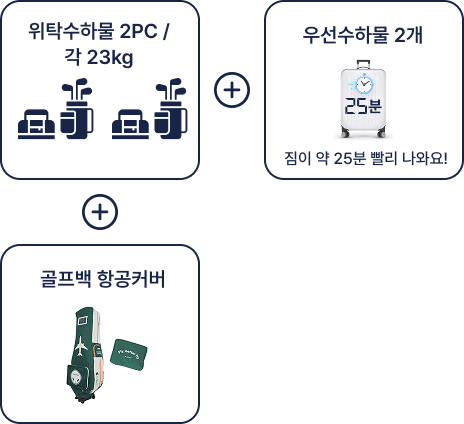
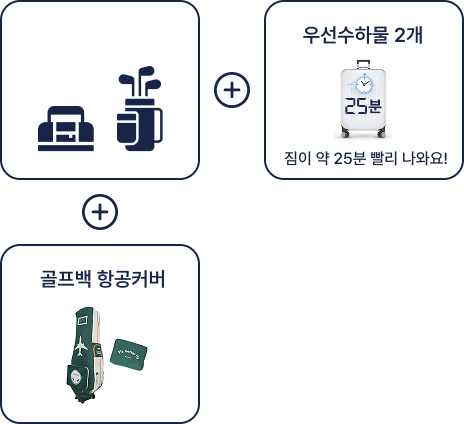
20260108_모바일 골프백추가2

Changed region(s): [[0.0603, 0.0307, 0.4224, 0.3679], [0.0302, 0.184, 0.2112, 0.3679]]

diff --git a/alphaseat/alpha_mo/resource/css/newui.css b/alphaseat/alpha_mo/resource/css/newui.css
@@ -4347,22 +4347,43 @@
 }
 
 .icon_golf_img1{
+	position: relative;
 	display: inline-block;
-	width: 100%;
+	width: 300px;
 	height: 116px;
 	background: url(../img/common/icon_golf_img1.png) no-repeat center/ 300px 116px;
 	background-size: contain;
 	margin-top: 15px;
 }
-
+.icon_golf_img1_txt{
+	position: absolute;
+    left: 4%;
+    top: 14%;
+    font-size: 13px;
+    color: #192547;
+    width: 110px;
+    line-height: 13px;
+}
 .icon_golf_img2{
+	position: relative;
 	display: inline-block;
-	width: 100%;
+	width: 300px;
 	height: 274px;
 	background: url(../img/common/icon_golf_img2.png) no-repeat center/ 300px 274px;
 	background-size: contain;
 	margin-top: 15px;
 }
+.icon_golf_img2_txt{
+	position: absolute;
+    left: 4%;
+    top: 6.3%;
+    font-size: 13px;
+    color: #192547;
+    width: 110px;
+    line-height: 13px;
+}
+
+
 .title-spd{
 	display: flex;
     align-items: center;
@@ -4412,6 +4433,24 @@
 
 
 @media (max-width: 321px) {
+	.icon_golf_img2{
+		width: 100%;
+	}
+	.icon_golf_img1{
+		width: 100%;
+	}
+	.icon_golf_img1_txt{
+		left: 5%;
+		top: 17%;
+		font-size: 11px;
+		width: 93px;
+	}
+	.icon_golf_img2_txt{
+		left: 5%;
+		top: 11.3%;
+		font-size: 11px;
+		width: 93px;
+	}
 	.card-pass-wrap{
 		font-size: 12px;
 	}

diff --git a/alphaseat/alpha_mo/service_baggage_golf.html b/alphaseat/alpha_mo/service_baggage_golf.html
@@ -172,7 +172,9 @@
 								<div class="detail-spd-dvd"><i class="ico-bag"></i>위탁 수하물 7Kg 추가</div>
 								<div class="detail-spd-dvd"><i class="ico-firstbag"></i>우선 수하물 2개</div>
 							</div>
-							<div class="icon_golf_img1"></div>
+							<div class="icon_golf_img1">
+								<span class="icon_golf_img1_txt">위탁수하물 합 22KG</span>
+							</div>
 						</div>
 					</div>
 					<div class="item-spd">
@@ -195,7 +197,9 @@
 								<div class="detail-spd-dvd"><i class="ico-firstbag"></i>우선 수하물 2개</div>
 								<div class="detail-spd-dvd"><i class="ico-firstbag"></i>골프백 항공커버</div>
 							</div>
-							<div class="icon_golf_img2"></div>
+							<div class="icon_golf_img2">
+								<span class="icon_golf_img2_txt">위탁수하물 합 22KG</span>
+							</div>
 						</div>
 					</div>
 				</div>
